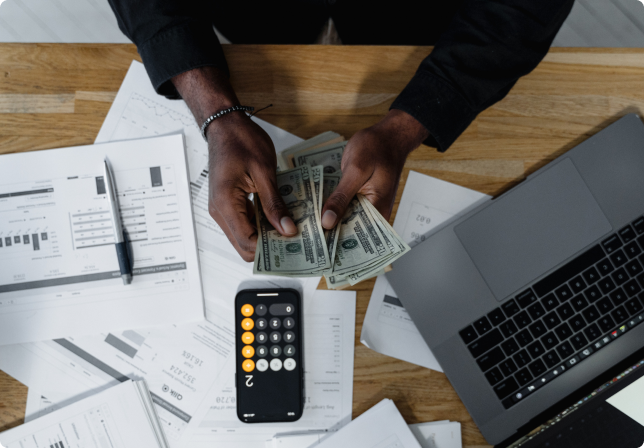
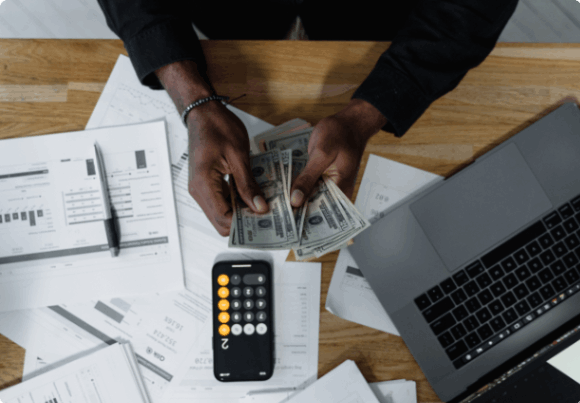
Improved images for faster load times

diff --git a/styles/sign.module.css b/styles/sign.module.css
@@ -60,18 +60,32 @@
   width: min(100%, 300px);
   position: relative;
 }
-.Input span {
-  position: relative;
-  width: 100%;
-  height: 100%;
-  margin: 0 !important;
+.Input::after {
+  content: attr(data-after);
+  position: absolute;
+  left: 80px;
+  font-size: x-large;
+  color: red;
 }
-.Input span.Before::before {
-  content: attr(data-before);
+.Input span.before {
+  margin: 0 !important;
+  padding-top: 26px;
   position: absolute;
   top: 50%;
-  left: 5px;
+  left: 10px;
   transform: translateY(-50%);
+  width: -moz-fit-content;
+  width: fit-content;
+  color: rgb(178, 180, 180);
+  height: 100%;
+  display: flex;
+  align-items: center;
+  cursor: pointer;
+  gap: 5px;
+}
+.Input span + input {
+  display: inline-block;
+  padding-left: 100px;
 }
 .Input input {
   all: unset;
@@ -83,11 +97,6 @@
   position: relative;
   width: 100%;
   height: 100%;
-}
-.Input input[type=number]::-webkit-outer-spin-button,
-.Input input[type=number]::-webkit-inner-spin-button {
-  -webkit-appearance: none;
-  margin: 0;
 }
 
 .Span {
@@ -135,7 +144,7 @@
   }
 }
 .SignIn .Support {
-  position: absolute;
+  position: fixed;
   bottom: 5%;
   right: 10%;
   z-index: 3;

diff --git a/components/Home/Testimony.js b/components/Home/Testimony.js
@@ -19,9 +19,10 @@ export default function Testimony() {
           content="What people say about us"
           style={{
             fontWeight: 600,
-            fontSize: "52px",
+            fontSize: "40px",
             lineHeight: "61px",
             color: "#DBEBEE",
+            textAlign: "center",
           }}
         />
         <div className={styles.Testimonies}>

diff --git a/components/Layout/Layout.module.scss b/components/Layout/Layout.module.scss
@@ -34,6 +34,7 @@
   @include General.Flex();
   z-index: 100;
   background: #fff;
+  box-shadow: 0px 1px 2px rgb(0 0 0 / 15%);
   justify-content: space-between;
   height: 80px;
   padding: 10px General.$leftRight;

diff --git a/components/Layout/Layout.module.css b/components/Layout/Layout.module.css
@@ -123,6 +123,7 @@
   width: 100%;
   z-index: 100;
   background: #fff;
+  box-shadow: 0px 1px 2px rgba(0, 0, 0, 0.15);
   justify-content: space-between;
   height: 80px;
   padding: 10px 10%;

diff --git a/components/Home/Home.module.scss b/components/Home/Home.module.scss
@@ -147,6 +147,9 @@ $background-images: (
           }
         }
       }
+      &:nth-child(odd) {
+        gap: 2rem;
+      }
       div {
         width: 50%;
         &:nth-child(1) {

diff --git a/components/Home/Home.module.css b/components/Home/Home.module.css
@@ -275,6 +275,9 @@
     padding-right: 1rem;
   }
 }
+.Work .WorkBody aside:nth-child(odd) {
+  gap: 2rem;
+}
 .Work .WorkBody aside div {
   width: 50%;
 }

diff --git a/styles/sign.module.scss b/styles/sign.module.scss
@@ -43,7 +43,7 @@
     }
   }
   .Support {
-    position: absolute;
+    position: fixed;
     bottom: 5%;
     right: 10%;
     z-index: 3;
